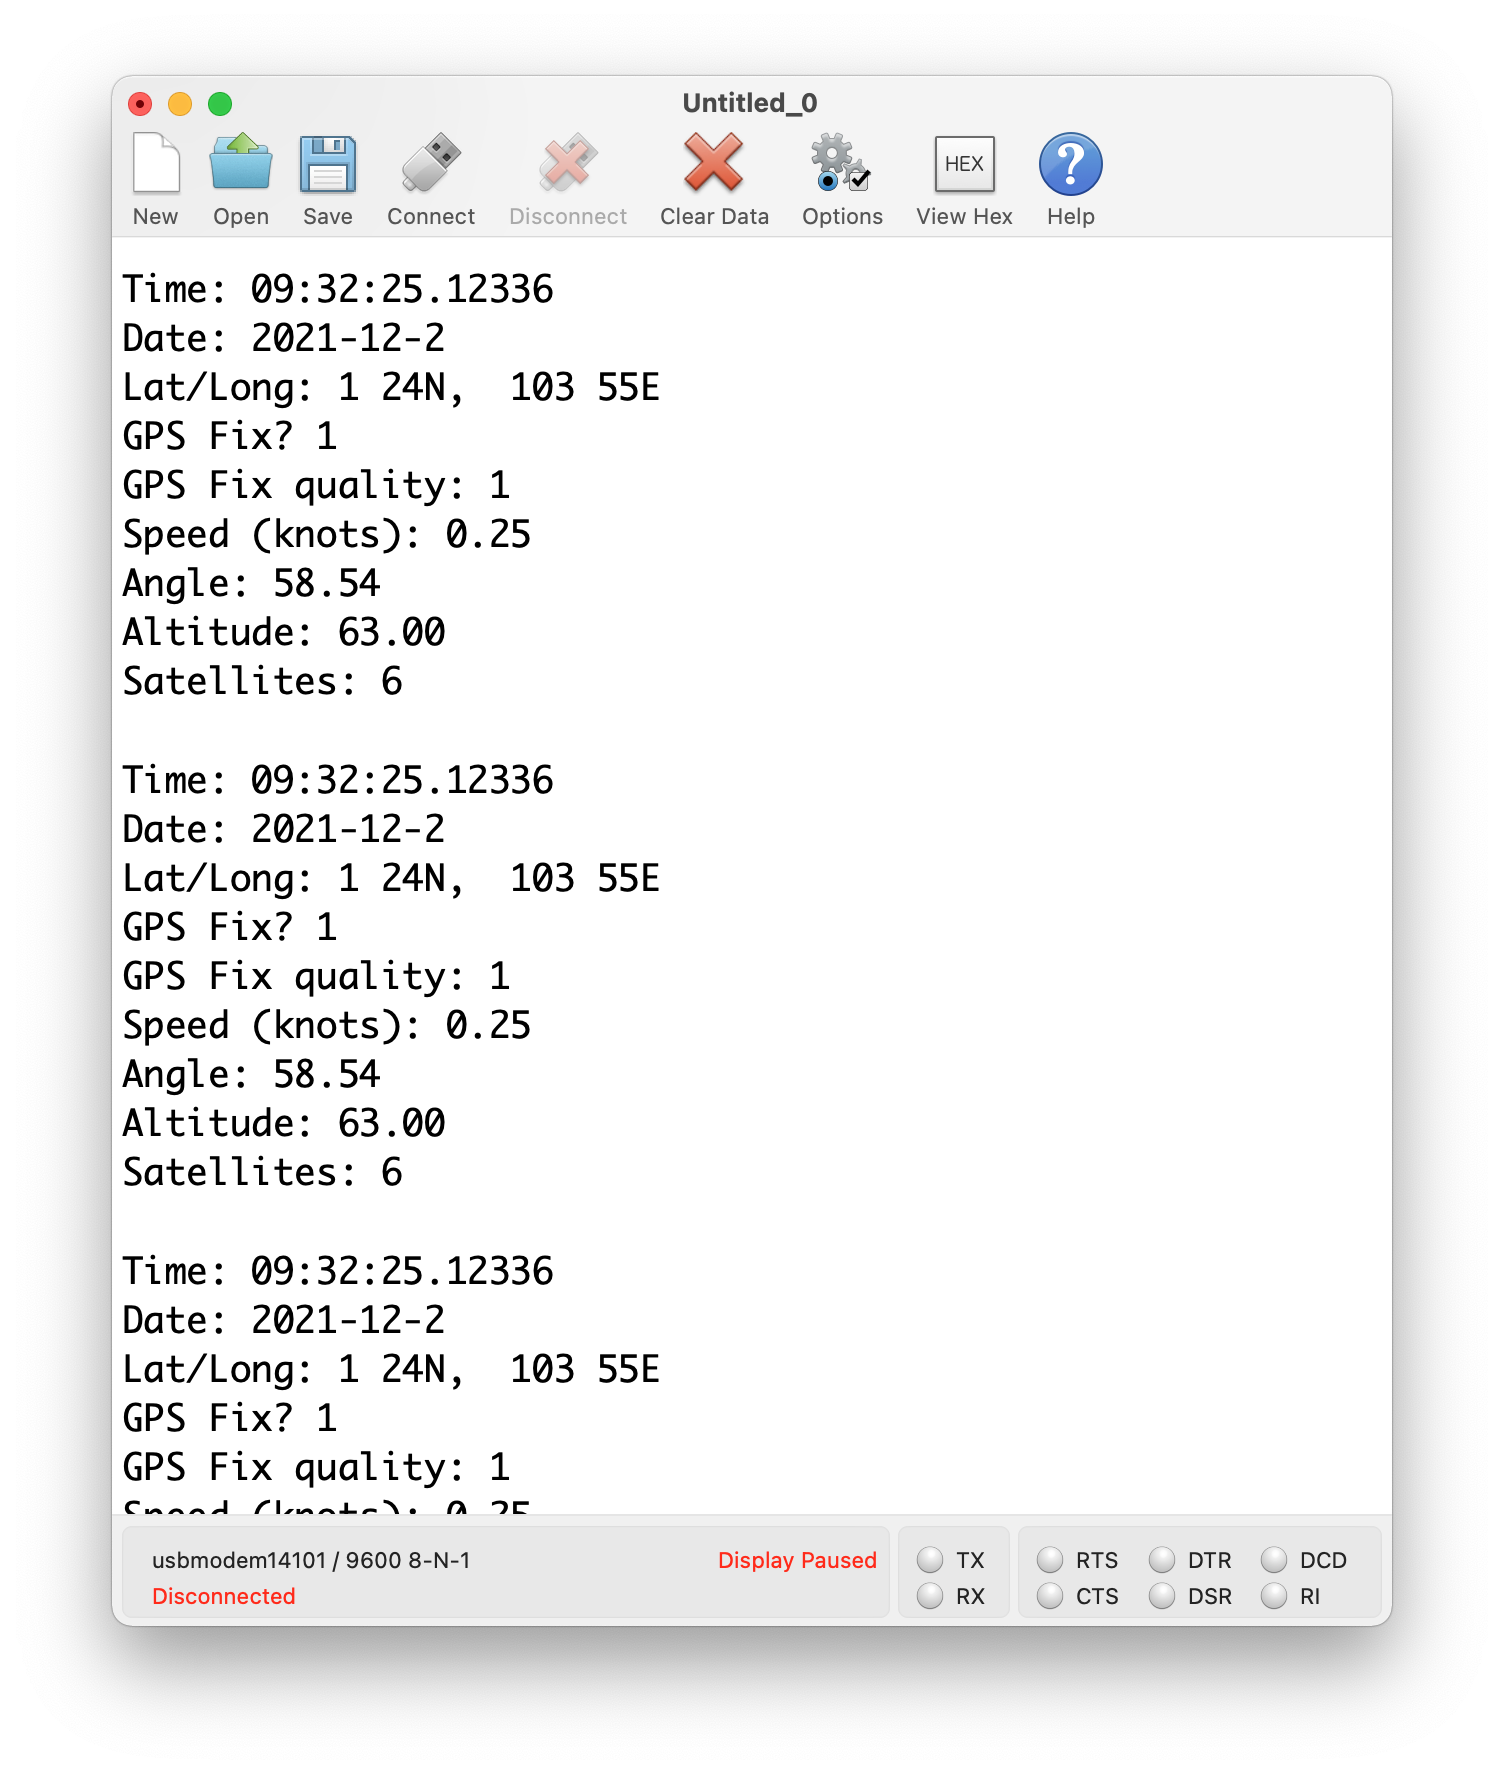
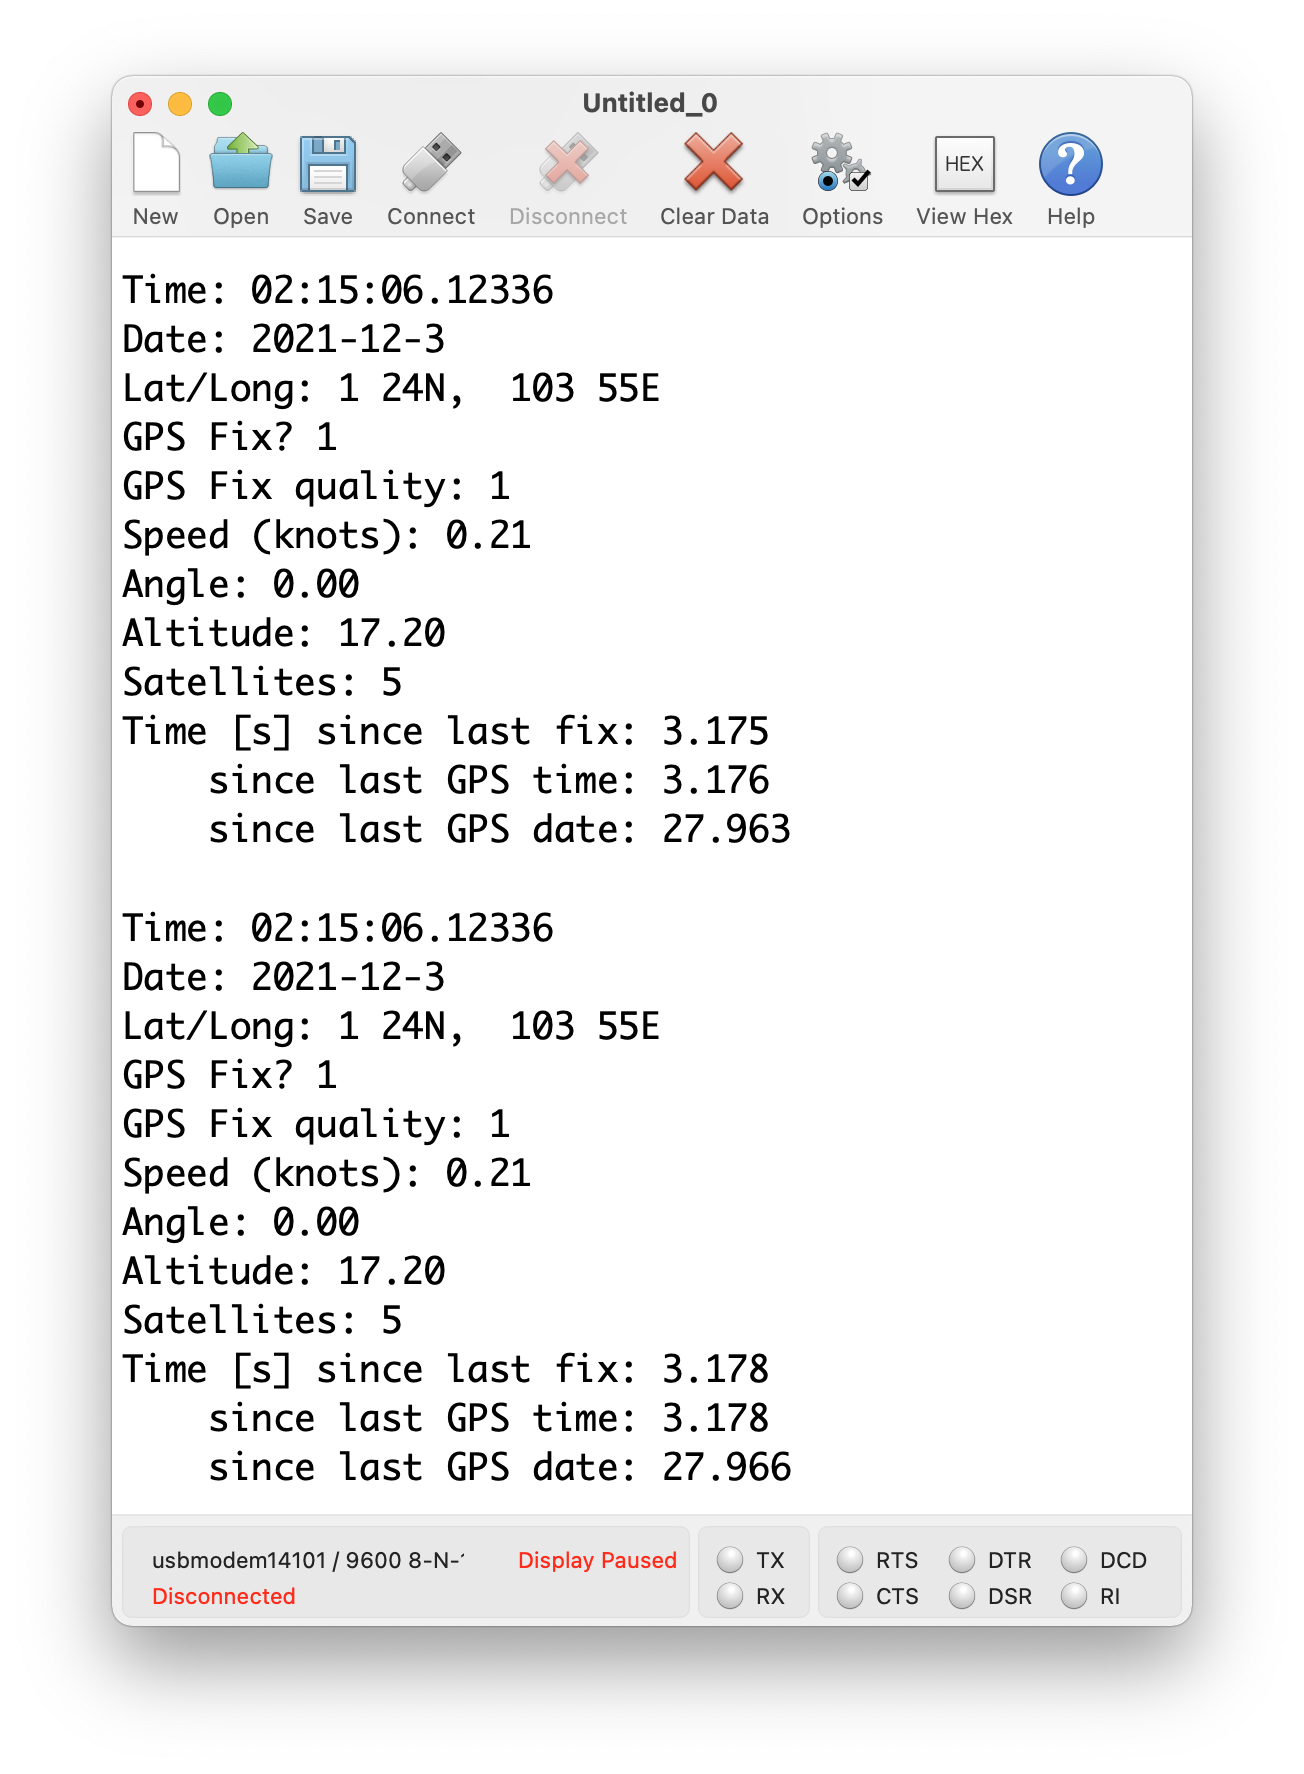
refactor: abstract all GPS info inot functions

diff --git a/_examples/demo/src/gps/gps.cpp b/_examples/demo/src/gps/gps.cpp
@@ -23,7 +23,7 @@ bool receivedGPSfix() {
   }
 
   if (!GPS.fix) {
-    return true; // TEMP
+    return false;
   }
 
   return true;
@@ -116,11 +116,14 @@ uint8_t getGPSsatellites() {
   return GPS.satellites;
 }
 
-void getOtherGPSinfo() {
-  SerialUSB.print("Time [s] since last fix: ");
-  SerialUSB.println(GPS.secondsSinceFix(), 3);
-  SerialUSB.print("    since last GPS time: ");
-  SerialUSB.println(GPS.secondsSinceTime(), 3);
-  SerialUSB.print("    since last GPS date: ");
-  SerialUSB.println(GPS.secondsSinceDate(), 3);
+float getGPStimeSinceLastFix() {
+  return GPS.secondsSinceFix();
+}
+
+float getGPSlastTime() {
+  return GPS.secondsSinceTime();
+}
+
+float getGPSlastDate() {
+  return GPS.secondsSinceDate();
 }

diff --git a/_examples/demo/src/gps/gps.h b/_examples/demo/src/gps/gps.h
@@ -13,5 +13,6 @@ float getGPSspeed();
 float getGPSangle();
 float getGPSaltitude();
 uint8_t getGPSsatellites();
-
-void getOtherGPSinfo();
+float getGPStimeSinceLastFix();
+float getGPSlastTime();
+float getGPSlastDate();
